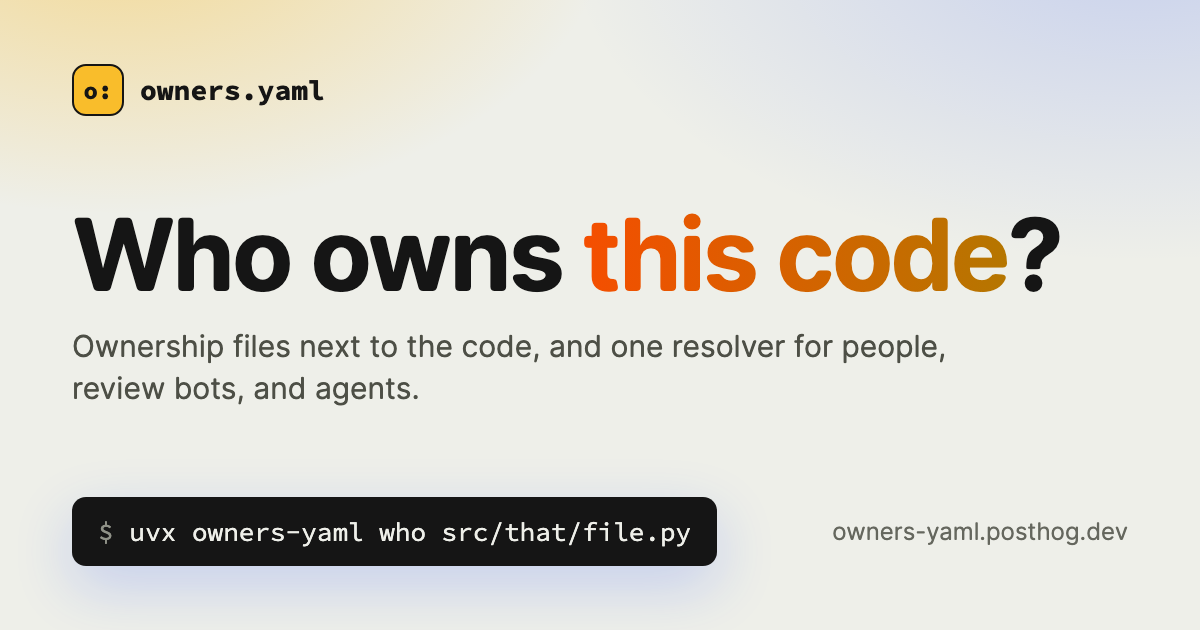
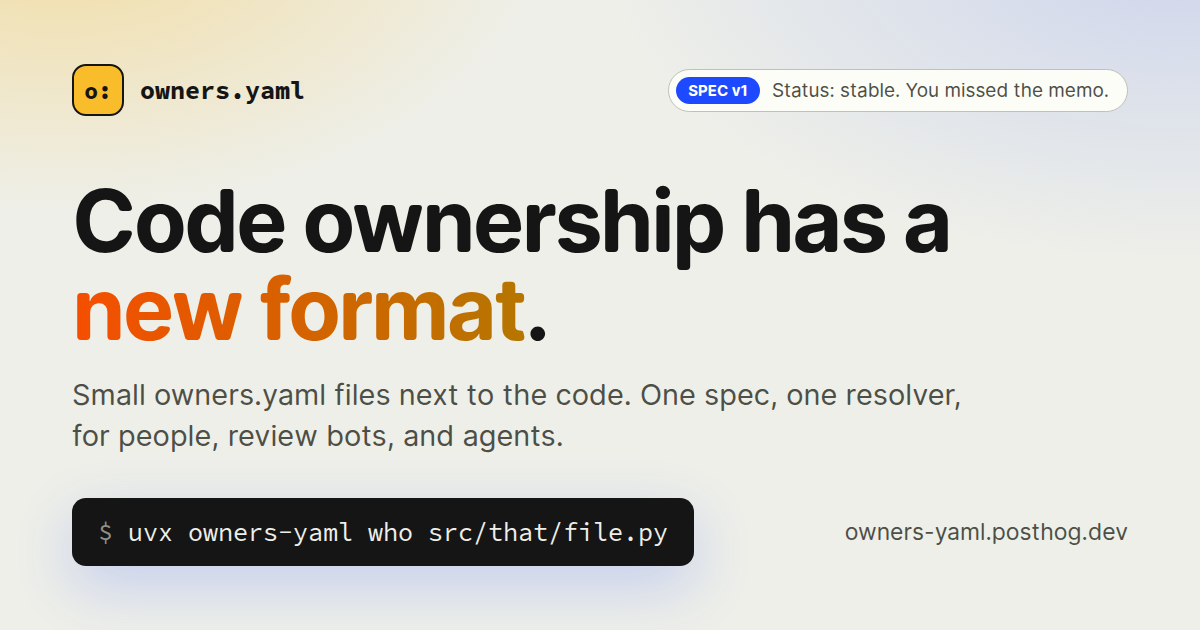
feat: present owners.yaml as the format the reader missed (#1)
* feat: present owners.yaml as the format the reader missed

The page led with the tool. It now leads with the format: the hero says
code ownership has a new format with a stable v1 spec, the spec is the
first button and the first nav link, and a new "What you missed" section
recaps the file, the rules, the conformance suite, and the reference
implementation. Two FAQ entries say honestly how standard it is and
invite other resolvers.

Claude-Session: https://claude.ai/code/session_01AdGqBg3gsLgJjAevcaQo9C

* feat: redraw the social card for the new format framing

The card still asked "who owns this code?". It now matches the hero:
the stable v1 spec badge, "Code ownership has a new format.", and the
same command and domain. The image alt text follows.

Claude-Session: https://claude.ai/code/session_01AdGqBg3gsLgJjAevcaQo9C

---------

diff --git a/index.html b/index.html
@@ -3,21 +3,21 @@
 <head>
 <meta charset="utf-8">
 <meta name="viewport" content="width=device-width, initial-scale=1">
-<title>owners.yaml: who owns this code?</title>
-<meta name="description" content="Code ownership in owners.yaml files next to the code. A resolver, a linter, and a CODEOWNERS export, for people, review bots, and agents.">
+<title>owners.yaml: the code ownership format you missed</title>
+<meta name="description" content="owners.yaml is the file format for code ownership: small files next to the code, an open spec at version 1, and one resolver for people, review bots, and agents.">
 <link rel="canonical" href="https://owners-yaml.posthog.dev/">
 <meta property="og:type" content="website">
 <meta property="og:site_name" content="owners.yaml">
-<meta property="og:title" content="owners.yaml: who owns this code?">
-<meta property="og:description" content="Code ownership in owners.yaml files next to the code. A resolver, a linter, and a CODEOWNERS export, for people, review bots, and agents.">
+<meta property="og:title" content="owners.yaml: the code ownership format you missed">
+<meta property="og:description" content="owners.yaml is the file format for code ownership: small files next to the code, an open spec at version 1, and one resolver for people, review bots, and agents.">
 <meta property="og:url" content="https://owners-yaml.posthog.dev/">
 <meta property="og:image" content="https://owners-yaml.posthog.dev/og-image.png">
 <meta property="og:image:width" content="1200">
 <meta property="og:image:height" content="630">
-<meta property="og:image:alt" content="owners.yaml: who owns this code? Ownership files next to the code, and one resolver for people, review bots, and agents.">
+<meta property="og:image:alt" content="owners.yaml: code ownership has a new format. Small owners.yaml files next to the code, one spec, and one resolver for people, review bots, and agents.">
 <meta name="twitter:card" content="summary_large_image">
-<meta name="twitter:title" content="owners.yaml: who owns this code?">
-<meta name="twitter:description" content="Code ownership in owners.yaml files next to the code. A resolver, a linter, and a CODEOWNERS export, for people, review bots, and agents.">
+<meta name="twitter:title" content="owners.yaml: the code ownership format you missed">
+<meta name="twitter:description" content="owners.yaml is the file format for code ownership: small files next to the code, an open spec at version 1, and one resolver for people, review bots, and agents.">
 <meta name="twitter:image" content="https://owners-yaml.posthog.dev/og-image.png">
 <meta name="theme-color" content="#eeefe9" media="(prefers-color-scheme: light)">
 <meta name="theme-color" content="#161614" media="(prefers-color-scheme: dark)">
@@ -158,8 +158,8 @@ pre{overflow-x:auto;white-space:pre!important;font-variant-ligatures:none}
 <div style="font-family: 'Source Code Pro', ui-monospace, monospace; font-weight: 700; font-size: 17px;">owners.yaml</div>
 </div>
 <div class="nav-links" style="display: flex; align-items: center; gap: 16px; font-size: 15px;">
-<a class="nav-text" href="https://github.com/PostHog/posthog/blob/master/packages/owners-yaml/README.md" style="color: var(--muted); text-decoration: none; display: inline-flex; align-items: center; min-height: 44px; padding: 0 6px;">Docs</a>
 <a class="nav-text" href="https://github.com/PostHog/posthog/blob/master/packages/owners-yaml/SPEC.md" style="color: var(--muted); text-decoration: none; display: inline-flex; align-items: center; min-height: 44px; padding: 0 6px;">Spec</a>
+<a class="nav-text" href="https://github.com/PostHog/posthog/blob/master/packages/owners-yaml/README.md" style="color: var(--muted); text-decoration: none; display: inline-flex; align-items: center; min-height: 44px; padding: 0 6px;">Docs</a>
 <a class="nav-text" href="#usage" style="color: var(--muted); text-decoration: none; display: inline-flex; align-items: center; min-height: 44px; padding: 0 6px;">Usage</a>
 <a class="nav-text" href="#pricing" style="color: var(--muted); text-decoration: none; display: inline-flex; align-items: center; min-height: 44px; padding: 0 6px;">Pricing</a>
 <div class="theme-toggle" role="group" aria-label="Color theme"><button type="button" data-theme-choice="light" aria-label="Light theme" title="Light"><svg width="16" height="16" viewBox="0 0 24 24" fill="none" stroke="currentColor" stroke-width="2" stroke-linecap="round" stroke-linejoin="round" aria-hidden="true"><circle cx="12" cy="12" r="4"></circle><path d="M12 2v2M12 20v2M4.9 4.9l1.4 1.4M17.7 17.7l1.4 1.4M2 12h2M20 12h2M4.9 19.1l1.4-1.4M17.7 6.3l1.4-1.4"></path></svg></button><button type="button" data-theme-choice="dark" aria-label="Dark theme" title="Dark"><svg width="16" height="16" viewBox="0 0 24 24" fill="none" stroke="currentColor" stroke-width="2" stroke-linecap="round" stroke-linejoin="round" aria-hidden="true"><path d="M21 12.8A9 9 0 1 1 11.2 3a7 7 0 0 0 9.8 9.8z"></path></svg></button><button type="button" data-theme-choice="auto" aria-label="Match system theme" title="Auto"><svg width="16" height="16" viewBox="0 0 24 24" fill="none" stroke="currentColor" stroke-width="2" stroke-linecap="round" stroke-linejoin="round" aria-hidden="true"><rect x="3" y="4" width="18" height="12" rx="2"></rect><path d="M8 20h8M12 16v4"></path></svg></button></div>
@@ -172,17 +172,17 @@ pre{overflow-x:auto;white-space:pre!important;font-variant-ligatures:none}
 
 <header style="width: 100%; max-width: 1160px; box-sizing: border-box; padding: 72px 32px 40px; display: flex; flex-direction: column; align-items: center; gap: 28px; text-align: center;">
 <div style="display: flex; align-items: center; gap: 10px; padding: 6px 14px 6px 6px; border: 1px solid var(--border-strong); border-radius: 999px; font-size: 14px; color: var(--muted); background: var(--card);">
-<span style="padding: 3px 10px; border-radius: 999px; background: var(--accent-bg); color: var(--on-accent); font-weight: 700; font-size: 12px;">NEW</span>
-<span>Ownership, but make it YAML</span>
+<span style="padding: 3px 10px; border-radius: 999px; background: var(--accent-bg); color: var(--on-accent); font-weight: 700; font-size: 12px; white-space: nowrap;">SPEC v1</span>
+<span>Status: stable. You missed the memo.</span>
 </div>
-<h1 class="hero-title" style="margin: 0; font-size: 84px; line-height: 1.02; font-weight: 700; letter-spacing: -0.03em; max-width: 980px;">Who owns <span style="background: var(--headline); -webkit-background-clip: text; background-clip: text; color: transparent;">this code</span>?</h1>
-<p style="margin: 0; font-size: 22px; line-height: 1.5; color: var(--muted); max-width: 820px;">Ownership lives in small <code>owners.yaml</code> files next to the code, not in one CODEOWNERS file for the whole repo. Ask it from a terminal, a review bot, or the agent that opened fourteen pull requests over lunch.</p>
+<h1 class="hero-title" style="margin: 0; font-size: 84px; line-height: 1.02; font-weight: 700; letter-spacing: -0.03em; max-width: 980px;">Code ownership has a <span style="background: var(--headline); -webkit-background-clip: text; background-clip: text; color: transparent;">new format</span>.</h1>
+<p style="margin: 0; font-size: 22px; line-height: 1.5; color: var(--muted); max-width: 820px;">While you were resolving merge conflicts in CODEOWNERS, ownership moved into small <code>owners.yaml</code> files next to the code. One written spec, one resolver, and the same answer for a terminal, a review bot, or the agent that opened fourteen pull requests over lunch.</p>
 <div style="display: flex; flex-wrap: wrap; justify-content: center; align-items: center; gap: 16px;">
+<a href="https://github.com/PostHog/posthog/blob/master/packages/owners-yaml/SPEC.md" style="padding: 15px 24px; border-radius: 12px; background: var(--button-bg); color: var(--button-fg); border: 1.5px solid var(--button-border); box-shadow: 3px 3px 0 var(--button-shadow); font-weight: 700; font-size: 16px; text-decoration: none;">Catch up on the spec (it has RFC 2119 keywords)</a>
 <div style="display: flex; align-items: center; gap: 14px; padding: 14px 20px; border-radius: 12px; background: var(--card); border: 1px solid var(--border-strong); font-family: 'Source Code Pro', ui-monospace, monospace; font-size: 16px;" data-copy="uvx owners-yaml who src/that/file.py">
 <span style="color: var(--subtle);">$</span>
 <span>uvx owners-yaml who src/that/file.py</span>
 </div>
-<a href="https://github.com/PostHog/posthog/blob/master/packages/owners-yaml/SPEC.md" style="padding: 15px 24px; border-radius: 12px; background: var(--button-bg); color: var(--button-fg); border: 1.5px solid var(--button-border); box-shadow: 3px 3px 0 var(--button-shadow); font-weight: 700; font-size: 16px; text-decoration: none;">Read the spec (it has RFC 2119 keywords)</a>
 </div>
 <div style="font-size: 14px; color: var(--subtle);">No signup. No dashboard. No AI at runtime, it just reads YAML. Plenty of AI in the commit history, and we are not going to pretend otherwise.</div>
 </header>
@@ -205,6 +205,32 @@ pre{overflow-x:auto;white-space:pre!important;font-variant-ligatures:none}
 <span style="color: var(--code-dim);">status: </span> active
 <span style="color: var(--code-dim);">slack:  </span> #team-billing
 <span style="color: var(--code-dim);">source: </span> billing/owners.yaml</pre>
+</div>
+</section>
+
+<section style="width: 100%; max-width: 1160px; box-sizing: border-box; padding: 0 32px 96px; display: flex; flex-direction: column; gap: 32px;">
+<div style="display: flex; flex-direction: column; gap: 12px; align-items: center; text-align: center;">
+<div style="font-size: 13px; letter-spacing: 0.14em; text-transform: uppercase; color: var(--accent);">Previously, in code ownership</div>
+<h2 style="margin: 0; font-size: 44px; letter-spacing: -0.02em;">What you missed</h2>
+<p style="margin: 0; font-size: 19px; color: var(--muted); max-width: 720px;">The short version for anyone who was busy. No need to admit it. We will not tell the others.</p>
+</div>
+<div class="grid-2" style="display: grid; grid-template-columns: repeat(2, minmax(0, 1fr)); gap: 20px;">
+<div style="padding: 28px; border-radius: 16px; background: var(--card); border: 1px solid var(--border); display: flex; flex-direction: column; gap: 10px;">
+<div style="font-size: 19px; font-weight: 700;">The file</div>
+<div style="font-size: 16px; line-height: 1.55; color: var(--muted);">Any directory can hold an owners.yaml. It applies to that directory and everything below it. Two required fields: version and owners.</div>
+</div>
+<div style="padding: 28px; border-radius: 16px; background: var(--card); border: 1px solid var(--border); display: flex; flex-direction: column; gap: 10px;">
+<div style="font-size: 19px; font-weight: 700;">The rules</div>
+<div style="font-size: 16px; line-height: 1.55; color: var(--muted);">The nearest file wins, field by field. A rule only reaches paths below its own file. owners: null means unowned on purpose. Everything is in the spec, in numbered MUSTs.</div>
+</div>
+<div style="padding: 28px; border-radius: 16px; background: var(--card); border: 1px solid var(--border); display: flex; flex-direction: column; gap: 10px;">
+<div style="font-size: 19px; font-weight: 700;">The conformance suite</div>
+<div style="font-size: 16px; line-height: 1.55; color: var(--muted);">About 100 cases, written as data. Write a resolver in any language, run the cases, and you get the same answers as everyone else.</div>
+</div>
+<div style="padding: 28px; border-radius: 16px; background: var(--card); border: 1px solid var(--border); display: flex; flex-direction: column; gap: 10px;">
+<div style="font-size: 19px; font-weight: 700;">The reference implementation</div>
+<div style="font-size: 16px; line-height: 1.55; color: var(--muted);">owners-yaml on PyPI: a CLI, a Python library, a JSON entrypoint, and a linter. Your GitHub required reviews keep working, because CODEOWNERS stays where it is.</div>
+</div>
 </div>
 </section>
 
@@ -246,7 +272,7 @@ pre{overflow-x:auto;white-space:pre!important;font-variant-ligatures:none}
 </section>
 
 <section style="width: 100%; max-width: 1160px; box-sizing: border-box; padding: 0 32px 96px; display: flex; flex-direction: column; gap: 32px;">
-<h2 style="margin: 0; font-size: 44px; letter-spacing: -0.02em; text-align: center;">Should you switch?</h2>
+<h2 style="margin: 0; font-size: 44px; letter-spacing: -0.02em; text-align: center;">Should you catch up?</h2>
 <div class="grid-2" style="display: grid; grid-template-columns: repeat(2, minmax(0, 1fr)); gap: 20px; align-items: start;">
 <div style="padding: 28px; border-radius: 16px; background: var(--card); border: 1px solid var(--border); display: flex; flex-direction: column; gap: 14px;">
 <div style="font-size: 20px; font-weight: 700;">Worth it when</div>
@@ -329,7 +355,7 @@ pre{overflow-x:auto;white-space:pre!important;font-variant-ligatures:none}
 
 <section id="usage" style="width: 100%; max-width: 1160px; box-sizing: border-box; padding: 0 32px 96px; display: flex; flex-direction: column; gap: 36px;">
 <div style="display: flex; flex-direction: column; gap: 12px; align-items: center; text-align: center;">
-<div style="font-size: 13px; letter-spacing: 0.14em; text-transform: uppercase; color: var(--accent);">Get started in 6 easy steps</div>
+<div style="font-size: 13px; letter-spacing: 0.14em; text-transform: uppercase; color: var(--accent);">Adopt the format in 6 easy steps</div>
 <h2 style="margin: 0; font-size: 48px; letter-spacing: -0.02em;">You only need the first two</h2>
 <p style="margin: 0; font-size: 19px; color: var(--muted); max-width: 720px;">No “book a demo”. Run it, put a file next to the code, ask. The other four steps cover settings, bots, CI, and your own tools.</p>
 </div>
@@ -556,6 +582,14 @@ resolver.map(["billing/api/invoices.py", "web/app.ts"])</pre>
 <section style="width: 100%; max-width: 1160px; box-sizing: border-box; padding: 0 32px 96px; display: flex; flex-direction: column; gap: 32px;">
 <h2 style="margin: 0; font-size: 44px; letter-spacing: -0.02em; text-align: center;">Questions a sensible person asks</h2>
 <div class="grid-2" style="display: grid; grid-template-columns: repeat(2, minmax(0, 1fr)); gap: 20px;">
+<div style="padding: 28px; border-radius: 16px; background: var(--card); border: 1px solid var(--border); display: flex; flex-direction: column; gap: 10px;">
+<div style="font-size: 19px; font-weight: 700;">Is this an actual standard?</div>
+<div style="font-size: 16px; line-height: 1.55; color: var(--muted);">It has a written spec at version 1, marked stable, a JSON Schema for editors, and a conformance suite. No committee voted on it. One company runs it today, across about 30 teams. That is how most standards start, we are told.</div>
+</div>
+<div style="padding: 28px; border-radius: 16px; background: var(--card); border: 1px solid var(--border); display: flex; flex-direction: column; gap: 10px;">
+<div style="font-size: 19px; font-weight: 700;">Can I write my own resolver?</div>
+<div style="font-size: 16px; line-height: 1.55; color: var(--muted);">Please do. The spec defines the resolution steps and a command interface, and the conformance cases check your answers. owners-yaml is the reference implementation, not the only one allowed.</div>
+</div>
 <div style="padding: 28px; border-radius: 16px; background: var(--card); border: 1px solid var(--border); display: flex; flex-direction: column; gap: 10px;">
 <div style="font-size: 19px; font-weight: 700;">How do I migrate my CODEOWNERS file?</div>
 <div style="font-size: 16px; line-height: 1.55; color: var(--muted);">By hand. There is no importer. Start with one owners.yaml per top-level directory, run owners unowned, and work down from there. It took us an afternoon per team, mostly arguing.</div>
